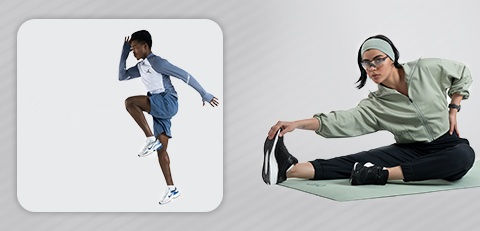
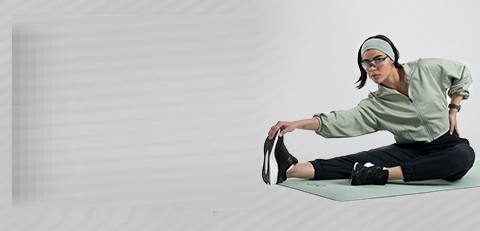
feat : add the categories page to the admin panel

diff --git a/src/app/(admin)/admin/categories/page.tsx b/src/app/(admin)/admin/categories/page.tsx
@@ -1,0 +1,146 @@
+"use client";
+
+import Image from "next/image";
+import { useRouter } from "next/navigation";
+import { Plus, PackageSearch, Layers } from "lucide-react";
+
+const ADMIN_CATEGORIES = [
+  {
+    id: 1,
+    title: "ستهای ورزشی",
+    slug: "set",
+    image: "/image/367-4.jpg",
+    count: 12,
+  },
+  {
+    id: 2,
+    title: "کفش مردانه",
+    slug: "men shoes",
+    image: "/image/357-2.jpg",
+    count: 8,
+  },
+  {
+    id: 3,
+    title: "کفش زنانه",
+    slug: "women shoes",
+    image: "/image/357-1.jpg",
+    count: 15,
+  },
+  {
+    id: 4,
+    title: "لباس ورزشی زنانه",
+    slug: "women",
+    image: "/image/367-5.jpg",
+    count: 24,
+  },
+  {
+    id: 5,
+    title: "لباس ورزشی مردانه",
+    slug: "men",
+    image: "/image/3d85c22e6bb7fefcd9f5063f9ed65b5a03194878_1767522242.webp",
+    count: 18,
+  },
+  {
+    id: 6,
+    title: "تجهیزات ورزشی",
+    slug: "equipment",
+    image: "/image/357-6.jpg",
+    count: 5,
+  },
+  {
+    id: 7,
+    title: "استوک",
+    slug: "stoke",
+    image: "/image/pro_60929_558.webp",
+    count: 3,
+  },
+];
+
+export default function AdminCategoriesPage() {
+  const router = useRouter();
+
+  const handleViewProducts = (slug: string) => {
+    router.push(`/admin/products?category=${slug}`);
+  };
+
+  // هدایت به صفحه ایجاد محصول و ارسال دسته به صورت Query Parameter
+  const handleAddProduct = (slug: string) => {
+    router.push(`/admin/products/create?category=${slug}`);
+  };
+
+  return (
+    <div className="space-y-6" dir="rtl">
+      {/* Header */}
+      <div className="flex items-center justify-between">
+        <div className="flex items-center gap-3">
+          <div className="flex h-12 w-12 items-center justify-center rounded-2xl bg-orange-100 text-orange-500">
+            <Layers size={24} />
+          </div>
+          <div>
+            <h1 className="text-2xl font-black text-slate-800">
+              مدیریت دستهبندیها
+            </h1>
+            <p className="text-sm text-slate-500 mt-1">
+              مشاهده محصولات یا افزودن محصول جدید به دستهبندی خاص
+            </p>
+          </div>
+        </div>
+      </div>
+
+      {/* Categories Grid */}
+      <div className="grid grid-cols-1 gap-6 md:grid-cols-2 xl:grid-cols-3">
+        {ADMIN_CATEGORIES.map((cat) => (
+          <div
+            key={cat.id}
+            className="group overflow-hidden rounded-3xl border bg-white shadow-sm transition-all hover:shadow-md"
+          >
+            {/* Image Section */}
+            <div className="relative h-48 w-full bg-slate-100 overflow-hidden">
+              <Image
+                src={cat.image}
+                alt={cat.title}
+                fill
+                className="object-cover transition-transform duration-500 group-hover:scale-110"
+              />
+              <div className="absolute inset-0 bg-linear-to-t from-black/60 to-transparent" />
+              <div className="absolute bottom-4 right-4 text-white">
+                <h3 className="text-xl font-bold">{cat.title}</h3>
+                <span className="mt-1 inline-block rounded-md bg-white/20 px-2 py-0.5 text-xs backdrop-blur-sm">
+                  {cat.slug}
+                </span>
+              </div>
+            </div>
+
+            {/* Actions Section */}
+            <div className="p-5">
+              <div className="mb-4 flex items-center justify-between text-sm text-slate-500">
+                <span>تعداد محصولات ثبت شده:</span>
+                <span className="font-bold text-slate-700">
+                  {cat.count} محصول
+                </span>
+              </div>
+
+              <div className="flex items-center gap-3">
+                <button
+                  onClick={() => handleViewProducts(cat.slug)}
+                  className="flex flex-1 items-center justify-center gap-2 rounded-xl border border-slate-200 bg-white py-3 text-sm font-semibold text-slate-600 transition hover:bg-slate-50 hover:text-slate-900"
+                >
+                  <PackageSearch size={18} />
+                  محصولات
+                </button>
+
+                <button
+                  onClick={() => handleAddProduct(cat.slug)}
+                  className="flex flex-1 items-center justify-center gap-2 rounded-xl bg-orange-50 text-orange-600 py-3 text-sm font-bold transition hover:bg-orange-500 hover:text-white"
+                >
+                  <Plus size={18} />
+                  افزودن محصول
+                </button>
+              </div>
+            </div>
+          </div>
+        ))}
+      </div>
+    </div>
+  );
+}